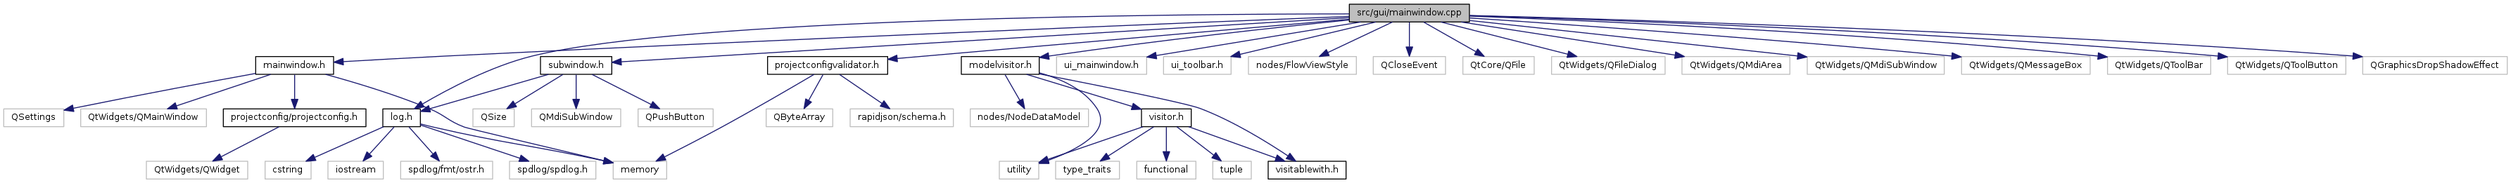
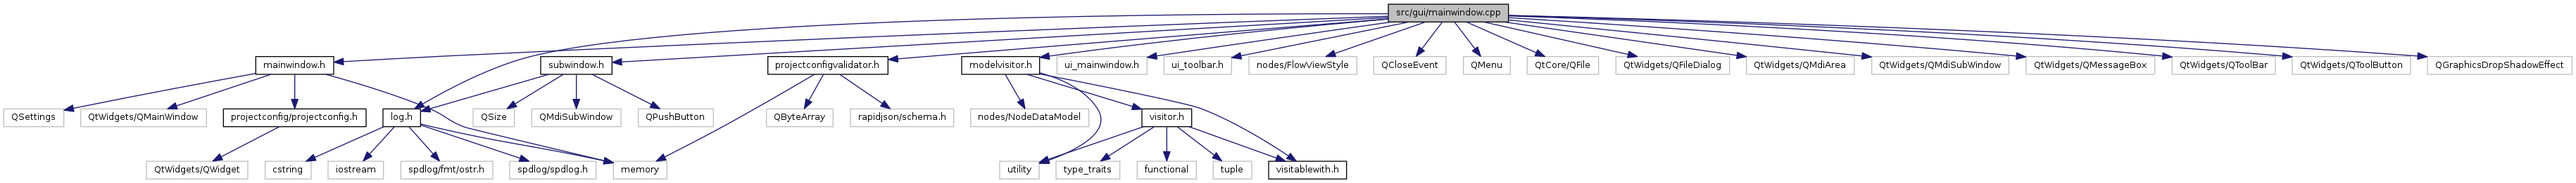
Deploy code docs to GitHub Pages Travis build: 378
Commit: 4a66d079f93220d445eefbbaf12f7a882025f116

Changed region(s): [[0.0, 0.0307, 0.9955, 0.9808]]

diff --git a/gui_rework/mainwindow_8cpp.html b/gui_rework/mainwindow_8cpp.html
@@ -117,6 +117,7 @@ $(document).ready(function(){initNavTree('mainwindow_8cpp.html','');});
 <code>#include &quot;ui_toolbar.h&quot;</code><br />
 <code>#include &lt;nodes/FlowViewStyle&gt;</code><br />
 <code>#include &lt;QCloseEvent&gt;</code><br />
+<code>#include &lt;QMenu&gt;</code><br />
 <code>#include &lt;QtCore/QFile&gt;</code><br />
 <code>#include &lt;QtWidgets/QFileDialog&gt;</code><br />
 <code>#include &lt;QtWidgets/QMdiArea&gt;</code><br />
